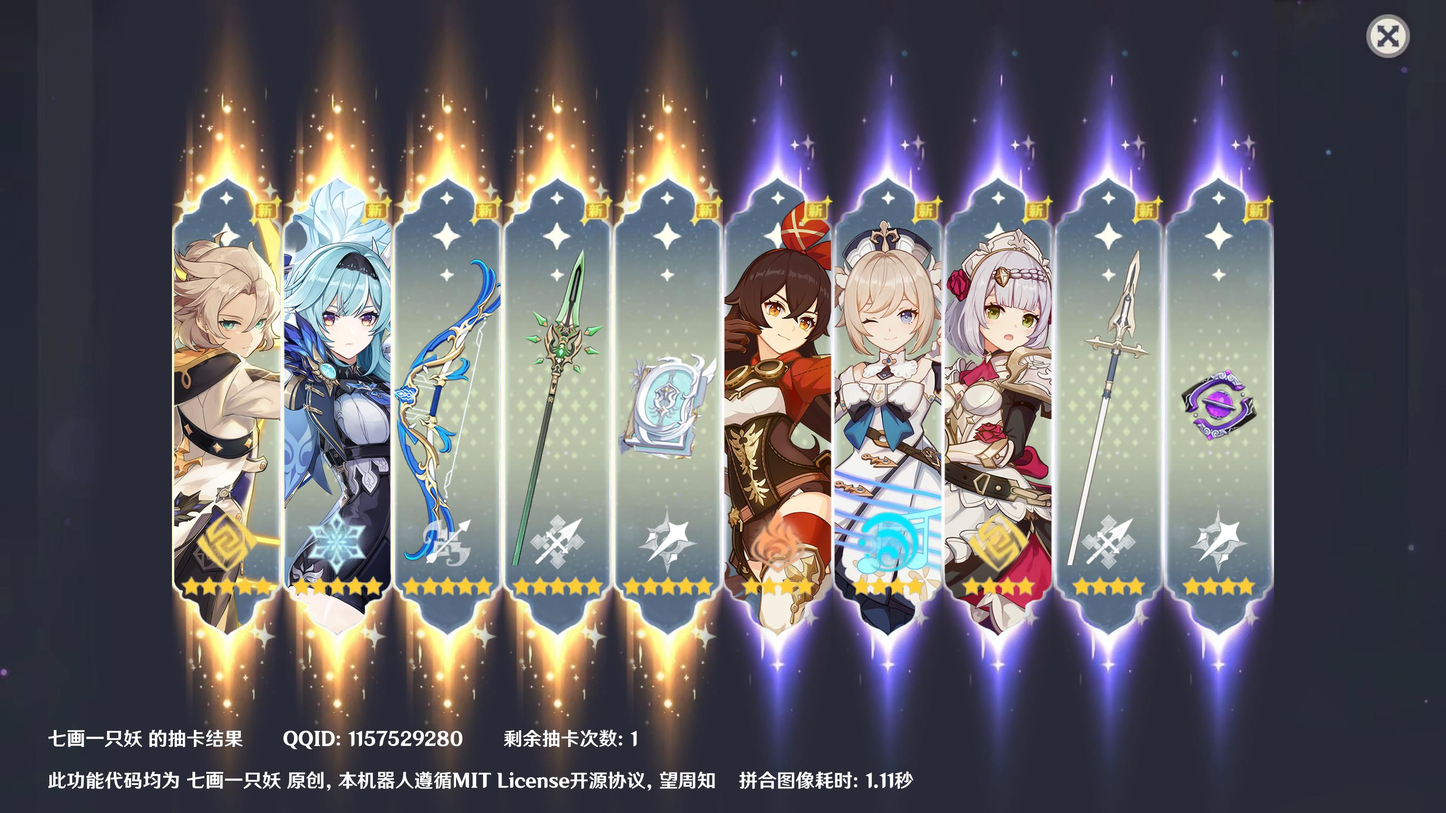
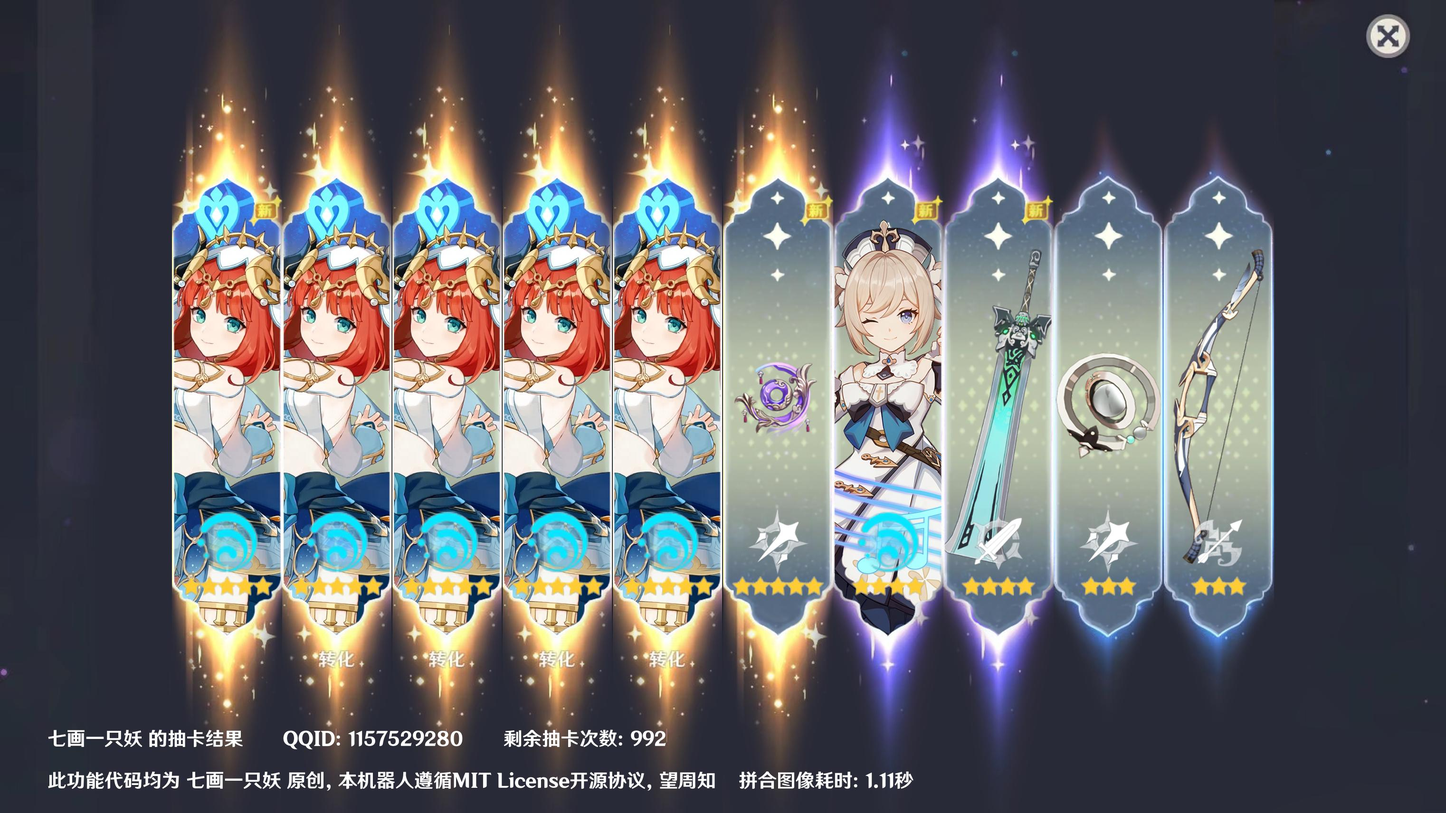
原神十连新增3.1人物

diff --git a/bot.py b/bot.py
@@ -2,11 +2,10 @@
 Author: 七画一只妖
 Date: 2022-01-07 20:25:48
 LastEditors: 七画一只妖
-LastEditTime: 2022-08-28 11:52:52
+LastEditTime: 2022-08-30 12:57:11
 Description: file content
 '''
 import nonebot
-# from nonebot.adapters.cqhttp import Bot as CQHTTPBot
 from nonebot.adapters.onebot.v11 import Adapter as ONEBOT_V11Adapter
 
 from os import path
@@ -22,16 +21,14 @@ nonebot.init(apscheduler_config={
     "apscheduler.timezone": "Asia/Shanghai"
 })
 
-# nonebot.load_builtin_plugins()
-
 # 测试模块
 # nonebot.load_plugins("src/plugins/bean")
 
 # 正式模块
 # nonebot.load_plugins("src/plugins/admin")
-# nonebot.load_plugins("src/plugins/function")
+nonebot.load_plugins("src/plugins/function")
 # nonebot.load_plugins("src/plugins/user")
-nonebot.load_plugins("src/plugins/listener")
+# nonebot.load_plugins("src/plugins/listener")
 # nonebot.load_plugins("src/plugins/speaker")
 # nonebot.load_plugins("src/plugins/help")
 

diff --git a/src/plugins/function/yuanshen_drow/user_utils.py b/src/plugins/function/yuanshen_drow/user_utils.py
@@ -2,7 +2,7 @@
 Author: 七画一只妖
 Date: 2022-03-20 14:16:15
 LastEditors: 七画一只妖
-LastEditTime: 2022-03-20 16:31:19
+LastEditTime: 2022-08-30 13:04:09
 Description: file content
 '''
 import copy
@@ -43,11 +43,11 @@ async def get_result() -> list:
     my_list = []
     while(i<10):
         flag = random.randint(1,1000)
-        if flag <= 200:
+        if flag <= 400:
             item = random.choices(update_pool_5x)
-        elif flag <= 400:
-            item = random.choices(weap_pool_5x)
         elif flag <= 600:
+            item = random.choices(weap_pool_5x)
+        elif flag <= 700:
             item = random.choices(update_pool_4x)
         elif flag <= 800:
             item = random.choices(weap_pool_4x)

diff --git a/src/plugins/function/yuanshen_drow/__init__.py b/src/plugins/function/yuanshen_drow/__init__.py
@@ -2,7 +2,7 @@
 Author: 七画一只妖
 Date: 2022-03-20 14:03:39
 LastEditors: 七画一只妖
-LastEditTime: 2022-08-28 22:44:55
+LastEditTime: 2022-08-30 21:40:43
 Description: file content
 '''
 
